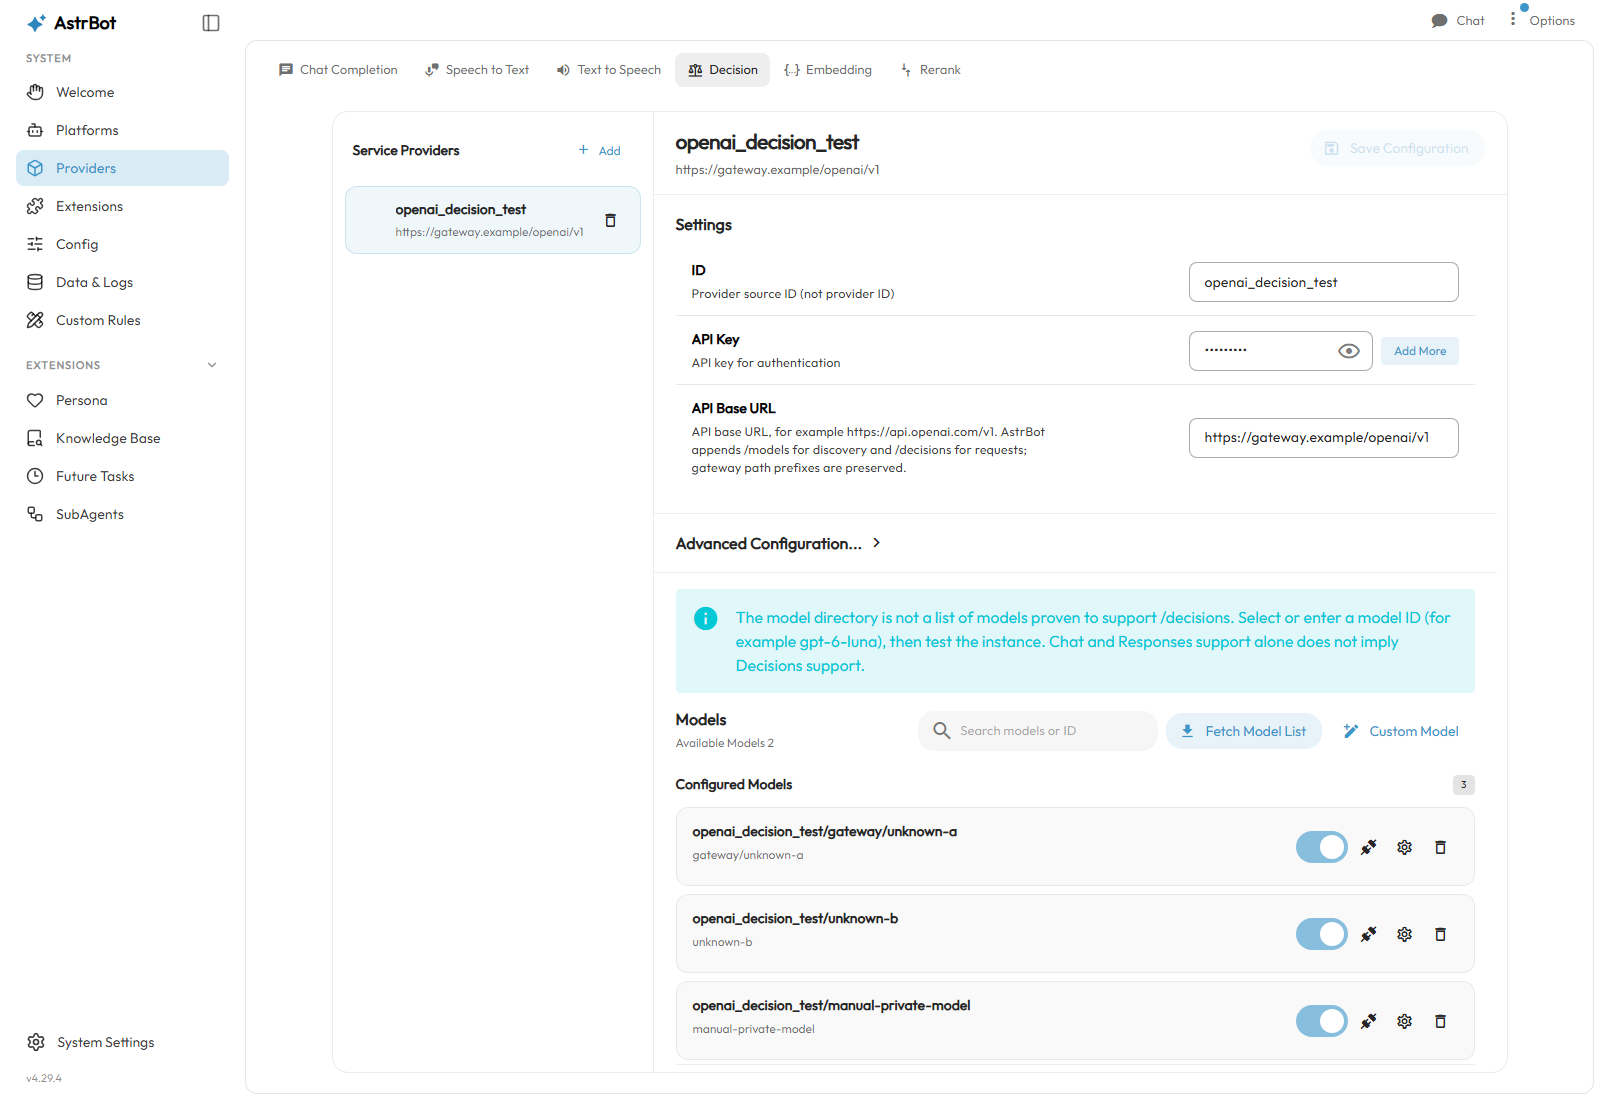
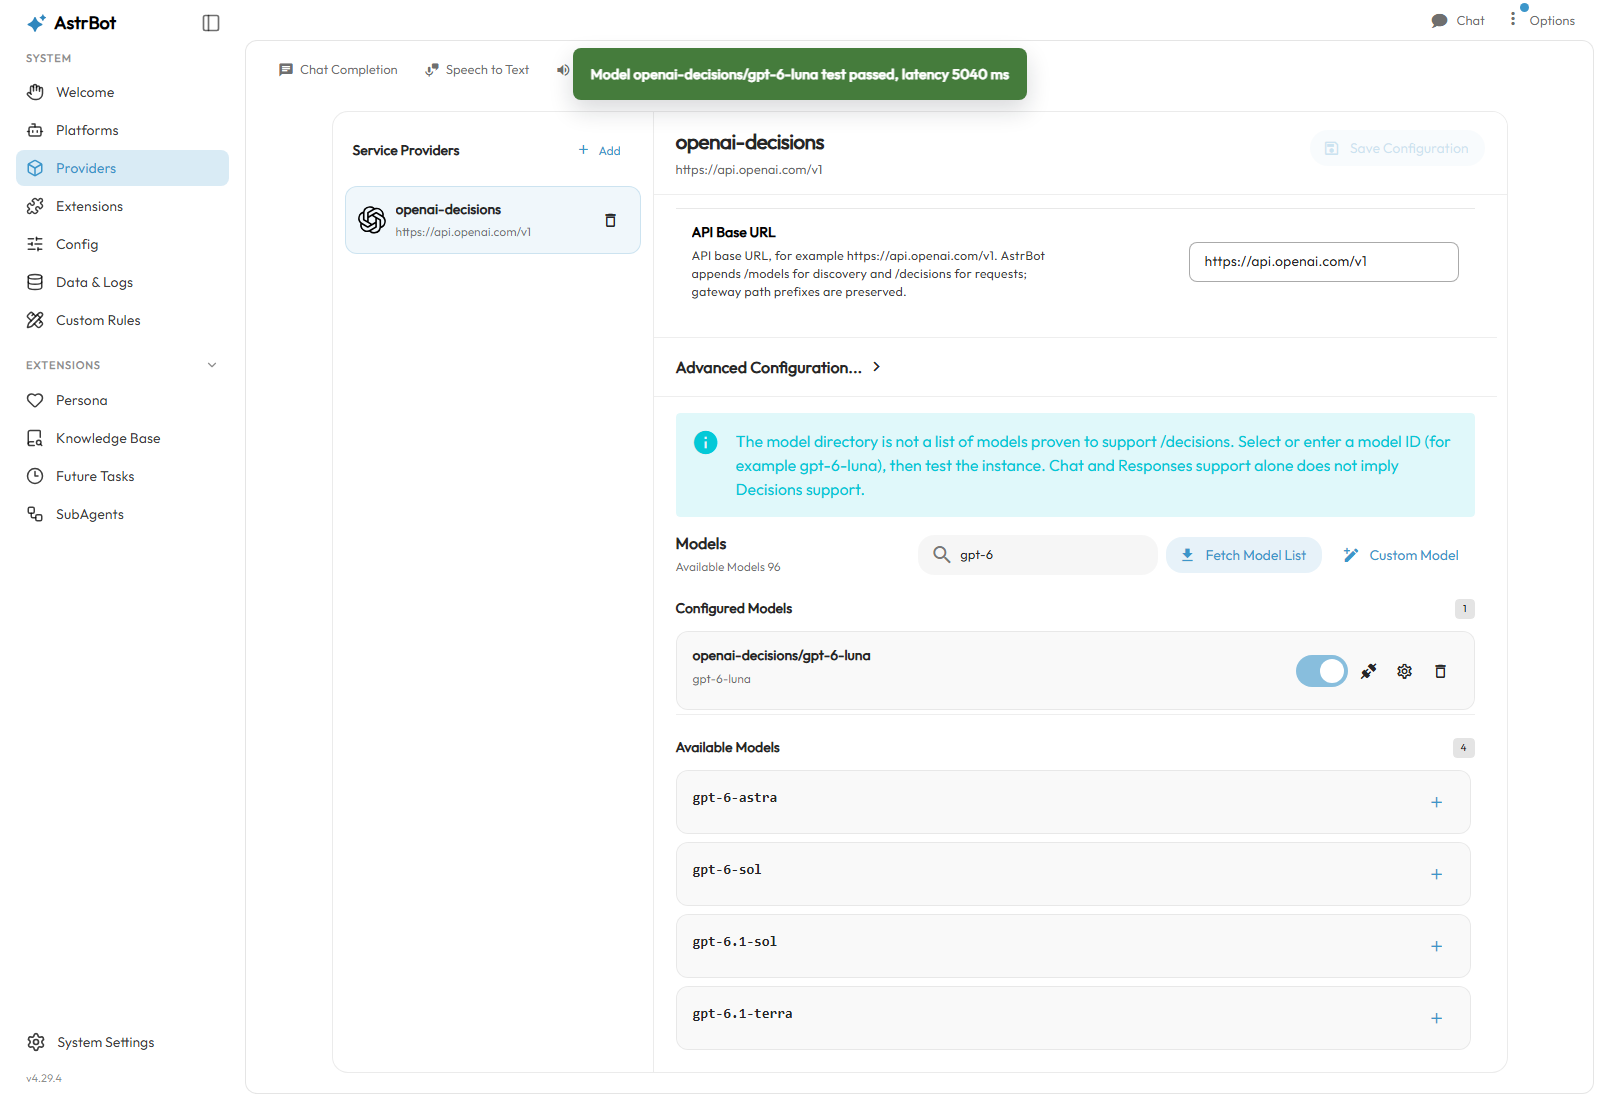
fix(provider): align Decisions source naming and document live UI tests

diff --git a/astrbot/core/config/default.py b/astrbot/core/config/default.py
@@ -2176,7 +2176,7 @@ CONFIG_METADATA_2 = {
                         "tei_rerank_return_text": False,
                     },
                     "OpenAI Decisions": {
-                        "id": "openai_decision",
+                        "id": "openai-decisions",
                         "type": "openai_decision",
                         "provider": "openai",
                         "provider_type": "decision",

diff --git a/docs/zh/use/webui.md b/docs/zh/use/webui.md
@@ -2,11 +2,11 @@
 
 「模型提供商」→「判断」中的 **OpenAI Decisions** 使用来源与模型工作区：保存来源后获取模型目录或手动添加模型 ID，再测试配置的实例。模型出现在目录中不代表支持 `/decisions`。已有 **System One** 条目保留单模型表单。插件调用和兼容性说明参见[结构化判断](../dev/star/guides/ai.md#结构化判断)。本次扩展沿用已有导航和模型工作区，没有移动导航入口。
 
-下面展示判断模型来源的目录获取与多模型配置。截图使用合成测试来源，示例模型名称不代表已验证的远程接口能力。
+下面展示隔离测试界面的真实模型目录，以及添加 `gpt-6-luna` 后的测试通过结果。新建来源默认命名为 `openai-decisions`，与 Responses 使用相同的 OpenAI 图标；已有来源 ID 不变。模型目录不代表其中所有模型均支持 Decisions。截图中的延迟包含测试桥接开销，不作为性能基准。
 
 ![获取判断模型目录](./images/decision-model-directory-zh.png)
 
-![同一来源下的多个判断模型](./images/decision-models-zh.png)
+![添加判断模型并测试通过](./images/decision-models-zh.png)
 
 AstrBot 管理面板具有管理插件、查看日志、可视化配置、查看统计信息等功能。
 

diff --git a/docs/en/use/webui.md b/docs/en/use/webui.md
@@ -2,9 +2,9 @@
 
 The AstrBot admin panel features plugin management, log viewing, visual configuration, statistics viewing, and more.
 
-The Decisions source supports multiple configured models. This screenshot uses a synthetic test source; its example model IDs do not establish remote endpoint compatibility.
+The screenshot shows `gpt-6-luna` added and successfully tested against the real API from an isolated test UI. New sources default to `openai-decisions` and use the same OpenAI icon as Responses; existing source IDs remain unchanged. A model directory does not establish Decisions capability. The displayed latency includes test-bridge overhead and is not a performance benchmark.
 
-![Multiple decision models in one source](./images/decision-models-en.png)
+![Decision model added and successfully tested](./images/decision-models-en.png)
 
 ## Navigation and Previous Entry Points
 
